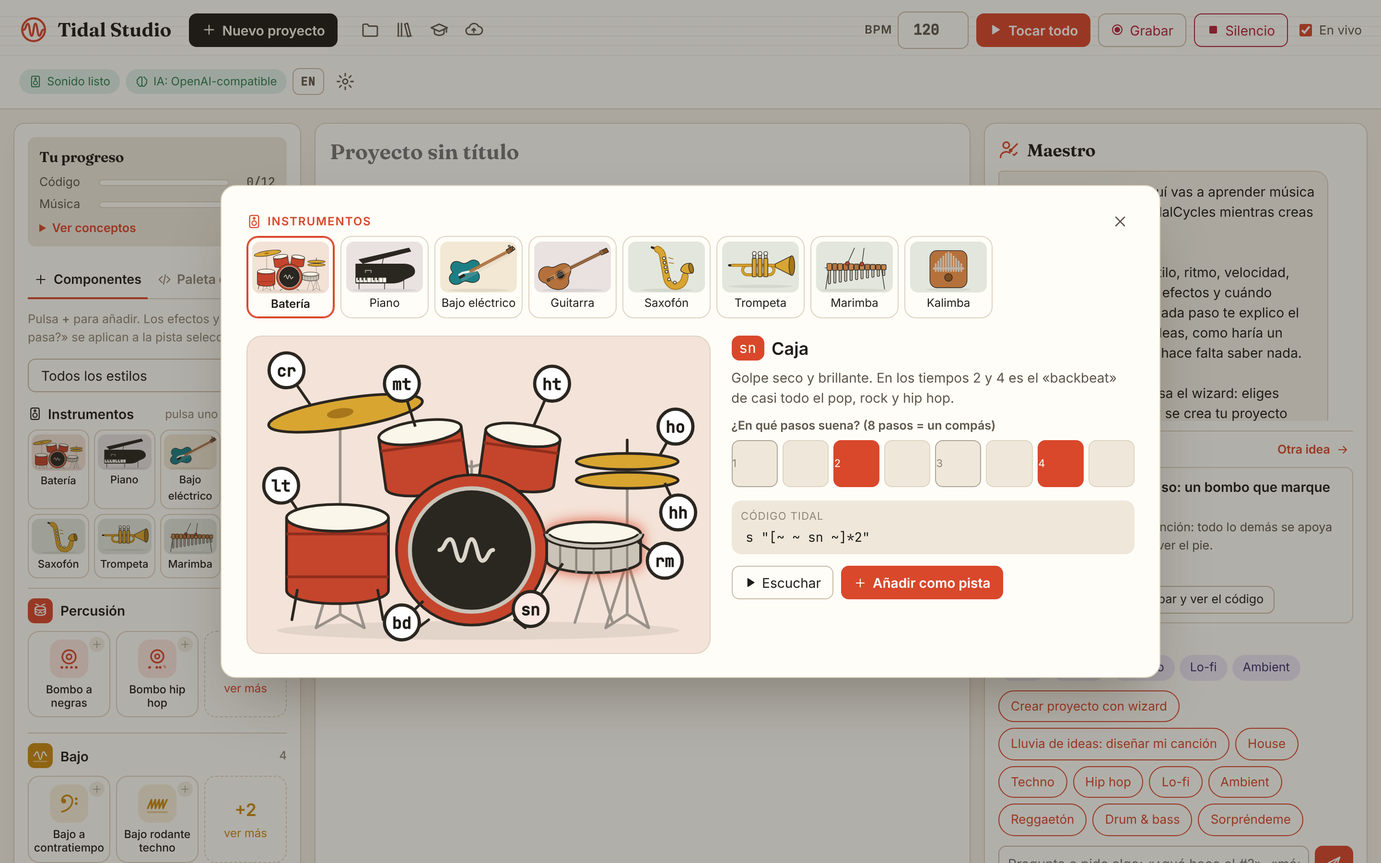
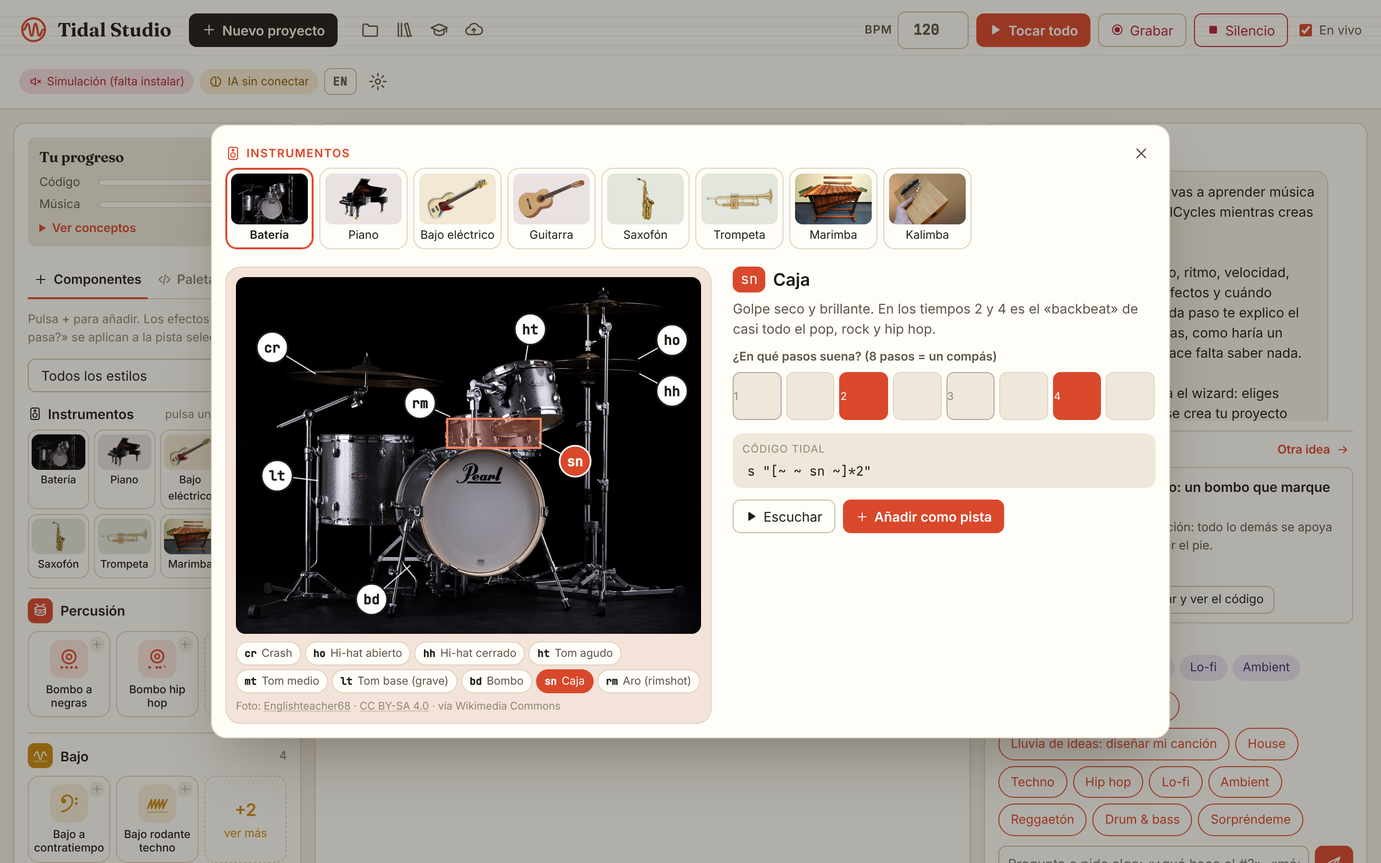
Real instrument photos from Wikimedia Commons with credits
Replace the hand-drawn instrument SVGs with openly licensed photos
(CC BY-SA). The drum kit photo keeps clickable hotspots, badges and a
chip row for every piece. Each photo shows author and license in the app,
and CREDITS.md lists them all. Regenerated instrument screenshots.

Claude-Session: https://claude.ai/code/session_011rzsaT1R4mKbtrY6eQau1r

diff --git a/web/instruments.js b/web/instruments.js
@@ -1,10 +1,36 @@
-// Instrumentos ilustrados: batería interactiva y teclado para instrumentos melódicos.
-// Ilustraciones dibujadas a mano en SVG (estilo «Partitura»), sin imágenes externas.
+// Instrumentos con fotos reales: batería interactiva y teclado para instrumentos melódicos.
+// Fotos con licencia libre de Wikimedia Commons (créditos en cada instrumento y en CREDITS.md).
 import { L } from "./i18n.js";
 
-const INK = "#2a2620", IVORY = "#fbf6ea", BRASS = "#d9a531", BRASS_D = "#a8761a", RED = "#c4452c", RED_D = "#8f2d1b",
-  CHROME = "#c9c3b8", WOOD = "#b5713b", WOOD_D = "#7d4a22", TEAL = "#1d7f86";
-const S = `stroke="${INK}" stroke-width="2" stroke-linejoin="round" stroke-linecap="round"`;
+const IMG = "img/instruments/";
+const COMMONS = "https://commons.wikimedia.org/wiki/File:";
+const LIC = {
+  "CC BY-SA 3.0": "https://creativecommons.org/licenses/by-sa/3.0/",
+  "CC BY-SA 4.0": "https://creativecommons.org/licenses/by-sa/4.0/",
+};
+// fit: "contain" = producto sobre fondo blanco (se funde con la tarjeta); "cover" = foto con su propio fondo
+const PHOTOS = {
+  drums: { src: "drums.jpg", fit: "cover", author: "Englishteacher68", license: "CC BY-SA 4.0", file: "Pearl_Midtown_compact_drum_kit.jpg" },
+  piano: { src: "piano.jpg", fit: "contain", author: "Steinway & Sons; derivative work: Morn", license: "CC BY-SA 3.0",
+    file: "Steinway_%26_Sons_concert_grand_piano,_model_D-274,_manufactured_at_Steinway%27s_factory_in_Hamburg,_Germany_cropped.jpg" },
+  bass: { src: "bass.jpg", fit: "contain", author: "Th. Ott", license: "CC BY-SA 3.0", file: "Fender_Jazz-Bass_1966.jpg" },
+  guitar: { src: "guitar.jpg", fit: "contain", author: "muzyczny.pl", license: "CC BY-SA 4.0", file: "Gitara_klasyczna_C30M_firmy_Yamaha.jpg" },
+  sax: { src: "sax.jpg", fit: "contain", author: "Yamaha Corporation", license: "CC BY-SA 4.0", file: "Yamaha_Saxophone_YAS-62.tif" },
+  trumpet: { src: "trumpet.jpg", fit: "contain", author: "Yamaha Corporation", license: "CC BY-SA 4.0", file: "Yamaha_Trumpet_YTR-8335LA_crop.jpg" },
+  marimba: { src: "marimba.jpg", fit: "cover", author: "HorsePunchKid", license: "CC BY-SA 3.0", file: "Bass_Marimba.jpg" },
+  kalimba: { src: "kalimba.jpg", fit: "cover", author: "Ernst-Andreas Müller (uploaded by Poipoi)", license: "CC BY-SA 3.0", file: "Kalimba.jpg" },
+};
+const escA = (s) => String(s).replace(/&/g, "&amp;").replace(/"/g, "&quot;").replace(/</g, "&lt;");
+
+export function photoImg(id, cls = "") {
+  const p = PHOTOS[id];
+  return `<img class="inst-photo ${p.fit}${cls ? " " + cls : ""}" src="${IMG}${p.src}" alt="" draggable="false">`;
+}
+// pie de foto con autor y licencia (obligatorio en CC BY-SA)
+export function photoCredit(id) {
+  const p = PHOTOS[id];
+  return `<div class="inst-credit">${L("Foto", "Photo")}: <a href="${COMMONS}${p.file}" target="_blank" rel="noopener">${escA(p.author)}</a> · <a href="${LIC[p.license]}" target="_blank" rel="noopener">${p.license}</a> · ${L("vía Wikimedia Commons", "via Wikimedia Commons")}</div>`;
+}
 
 // ------------------------------------------------------------------ batería
 export const DRUM_PIECES = {
@@ -17,7 +43,7 @@ export const DRUM_PIECES = {
   ht: { es: "Tom agudo", en: "High tom", steps: [0, 0, 0, 0, 0, 1, 0, 0],
     tip: ["El tambor más pequeño y agudo. Los toms se usan para redobles al final de una frase.", "The smallest, highest drum. Toms are used for fills at the end of a phrase."] },
   mt: { es: "Tom medio", en: "Mid tom", steps: [0, 0, 0, 0, 0, 0, 1, 0],
-    tip: ["Tom de altura media: junto al agudo y al grave forma una escalera de tambores.", "Medium-pitched tom: with the high and low ones it makes a staircase of drums."] },
+    tip: ["Tom de altura media: junto al agudo y al grave forma una escalera de tambores. Esta batería compacta solo trae dos toms, así que el medio no sale en la foto: pulsa su botón debajo.", "Medium-pitched tom: with the high and low ones it makes a staircase of drums. This compact kit only has two toms, so the mid tom is not in the photo: press its button below."] },
   lt: { es: "Tom base (grave)", en: "Floor tom (low)", steps: [0, 0, 0, 0, 0, 0, 0, 1],
     tip: ["El tom más grave, apoyado en el suelo. Cierra los redobles con fuerza.", "The lowest tom, standing on the floor. It closes fills with power."] },
   bd: { es: "Bombo", en: "Kick drum", steps: [1, 0, 1, 0, 1, 0, 1, 0],
@@ -28,97 +54,61 @@ export const DRUM_PIECES = {
     tip: ["Golpear el borde metálico de la caja: un «toc» seco, típico del reggaetón y la música latina.", "Hitting the snare's metal rim: a dry «tock», typical of reggaeton and Latin music."] },
 };
 
-function badge(p, x, y, lx, ly) {
-  return `<g class="dk-badge" data-p="${p}"><path d="M${lx} ${ly}L${x} ${y}" stroke="${INK}" stroke-width="2"/><circle cx="${x}" cy="${y}" r="13" fill="#fff" stroke="${INK}" stroke-width="2.4"/><text x="${x}" y="${y + 4.5}" text-anchor="middle">${p}</text></g>`;
-}
+// Zonas clicables sobre la foto (coordenadas de la foto original, 1920×1472).
+// Se dibujan de atrás hacia delante: lo que tapa a otra pieza va después.
+const DK_W = 1920, DK_H = 1472;
+const DK_SHAPES = {
+  lt: `<path d="M338 655 L670 655 L670 1020 L338 1020 Z"/>`,
+  bd: `<circle cx="975" cy="968" r="300"/>`,
+  sn: `<path d="M872 585 L1258 585 L1258 705 L872 705 Z"/>`,
+  rm: `<path class="dk-rim" d="M880 580 Q1060 548 1255 582"/>`,
+  cr: `<ellipse cx="535" cy="418" rx="335" ry="48"/><ellipse cx="1520" cy="128" rx="240" ry="40"/>`,
+  ho: `<ellipse cx="1485" cy="346" rx="190" ry="24"/>`,
+  hh: `<ellipse cx="1490" cy="392" rx="190" ry="22"/>`,
+  ht: `<ellipse cx="1190" cy="500" rx="172" ry="158"/>`,
+};
+const DK_ORDER = ["lt", "bd", "sn", "rm", "cr", "ho", "hh", "ht"];
+// [x, y] de la etiqueta y [x, y] del punto al que señala
+const DK_BADGES = {
+  cr: [150, 290, 330, 400], ho: [1800, 260, 1660, 338], hh: [1800, 470, 1665, 398], ht: [1215, 215, 1195, 345],
+  sn: [1400, 760, 1250, 680], rm: [760, 520, 885, 576], lt: [170, 820, 340, 840], bd: [560, 1330, 720, 1190],
+};
 
 export function drumKitSVG(sel = "", labels = true) {
   // sin etiquetas = miniatura: no es interactiva
-  const on = (p) => labels ? `class="dk-p${sel === p ? " sel" : ""}" data-p="${p}"` : "";
-  return `<svg class="drumkit" viewBox="0 0 330 222" role="img" aria-label="${L("Batería", "Drum kit")}">
-  <ellipse cx="165" cy="212" rx="150" ry="7" fill="${INK}" opacity=".08"/>
-  <g ${S} fill="none" opacity=".85"><path d="M62 58L62 200M62 200l-18 10M62 200l18 10M62 150l-18 60M62 150l18 60" stroke="#8a847a"/>
-    <path d="M276 92V200M276 200l-16 10M276 200l16 10M276 160l-16 50M276 160l16 50" stroke="#8a847a"/>
-    <path d="M251 160l-14 46M251 160l14 46M251 150v10" stroke="#8a847a"/>
-    <path d="M160 100v-14M130 82l30 8 30-8" stroke="#8a847a"/></g>
-  <g ${on("cr")}><ellipse cx="66" cy="50" rx="58" ry="11" transform="rotate(-9 66 50)" fill="${BRASS}" ${S}/><ellipse cx="62" cy="50" rx="10" ry="3.6" transform="rotate(-9 62 50)" fill="${BRASS_D}"/></g>
-  <g ${on("lt")}><path d="M22 128v54c0 6 17 10 38 10s38-4 38-10v-54" fill="${RED}" ${S}/><path d="M22 140h76M22 172h76" stroke="${RED_D}" stroke-width="2"/><path d="M30 182l-4 22M90 182l4 22" ${S}/><ellipse cx="60" cy="128" rx="38" ry="10" fill="${IVORY}" ${S}/></g>
-  <g ${on("mt")}><g transform="rotate(-8 124 82)"><path d="M93 64v38c0 5 14 9 31 9s31-4 31-9V64" fill="${RED}" ${S}/><path d="M93 74h62" stroke="${RED_D}" stroke-width="2"/><ellipse cx="124" cy="64" rx="31" ry="8.5" fill="${IVORY}" ${S}/></g></g>
-  <g ${on("ht")}><g transform="rotate(8 196 82)"><path d="M168 66v34c0 5 13 8 28 8s28-3 28-8V66" fill="${RED}" ${S}/><path d="M168 76h56" stroke="${RED_D}" stroke-width="2"/><ellipse cx="196" cy="66" rx="28" ry="8" fill="${IVORY}" ${S}/></g></g>
-  <g ${on("bd")}><circle cx="160" cy="152" r="56" fill="${RED}" ${S}/><circle cx="160" cy="152" r="46" fill="${INK}"/><circle cx="160" cy="152" r="46" fill="none" stroke="${CHROME}" stroke-width="3"/><path d="M136 152c4 0 4-8 8-8s4 16 8 16 4-16 8-16 4 16 8 16 4-8 8-8" stroke="${IVORY}" stroke-width="3" fill="none" stroke-linecap="round" stroke-linejoin="round" opacity=".85"/><path d="M128 204l-8 6M192 204l8 6" ${S}/></g>
-  <g ${on("sn")}><path d="M216 140v20c0 5 16 9 35 9s35-4 35-9v-20" fill="${CHROME}" ${S}/><path d="M226 145v21M238 147v22M251 148v22M264 147v22M276 145v21" stroke="#8a847a" stroke-width="1.6"/><ellipse cx="251" cy="140" rx="35" ry="9" fill="${IVORY}" ${S}/></g>
-  <g ${on("rm")}><path d="M216 140c0 5 16 9 35 9s35-4 35-9" fill="none" stroke="${INK}" stroke-width="5.5"/><path d="M216 140c0 5 16 9 35 9s35-4 35-9" fill="none" stroke="${CHROME}" stroke-width="2.6"/></g>
-  <g ${on("hh")}><ellipse cx="276" cy="100" rx="38" ry="6" fill="${BRASS}" ${S}/></g>
-  <g ${on("ho")}><ellipse cx="276" cy="86" rx="38" ry="6" fill="${BRASS}" ${S}/><path d="M276 80v-10" ${S}/></g>
-  ${labels ? [badge("cr", 22, 18, 40, 44), badge("ho", 312, 60, 300, 82), badge("hh", 314, 124, 304, 102), badge("mt", 108, 28, 118, 60), badge("ht", 220, 28, 206, 60),
-    badge("lt", 18, 104, 30, 122), badge("bd", 108, 206, 124, 190), badge("sn", 204, 196, 228, 162), badge("rm", 304, 160, 284, 146)].join("") : ""}
-</svg>`;
+  if (!labels) return photoImg("drums");
+  const shapes = DK_ORDER.map((p) => `<g class="dk-p${sel === p ? " sel" : ""}" data-p="${p}"><title>${p}: ${escA(L(DRUM_PIECES[p].es, DRUM_PIECES[p].en))}</title>${DK_SHAPES[p]}</g>`).join("");
+  const badges = Object.entries(DK_BADGES).map(([p, [x, y, lx, ly]]) =>
+    `<g class="dk-badge${sel === p ? " sel" : ""}" data-p="${p}"><path d="M${lx} ${ly}L${x} ${y}"/><circle cx="${x}" cy="${y}" r="64"/><text x="${x}" y="${y + 20}" text-anchor="middle">${p}</text></g>`).join("");
+  const chips = Object.keys(DRUM_PIECES).map((p) => `<button class="dk-chip${sel === p ? " sel" : ""}" data-p="${p}"><code>${p}</code> ${escA(L(DRUM_PIECES[p].es, DRUM_PIECES[p].en))}</button>`).join("");
+  return `<div class="drumkit" role="group" aria-label="${L("Batería", "Drum kit")}">
+  <div class="dk-photo">${photoImg("drums")}<svg viewBox="0 0 ${DK_W} ${DK_H}" preserveAspectRatio="none" aria-hidden="true">${shapes}${badges}</svg></div>
+  <div class="dk-chips">${chips}</div>
+</div>`;
 }
-
-// ------------------------------------------------------------------ instrumentos melódicos
-const piano = `<svg viewBox="0 0 240 160"><ellipse cx="120" cy="152" rx="100" ry="5" fill="${INK}" opacity=".08"/>
-  <path d="M40 56L196 20l6 10L52 68z" fill="${INK}" ${S}/><path d="M118 40l-6 34" ${S}/>
-  <path d="M30 70h150c22 0 36 10 34 26-2 14-22 16-34 24-10 7-20 10-40 10H30z" fill="${INK}" ${S}/>
-  <rect x="30" y="112" width="96" height="16" rx="2" fill="${IVORY}" ${S}/>
-  <path d="M42 112v16M54 112v16M66 112v16M78 112v16M90 112v16M102 112v16M114 112v16" stroke="${INK}" stroke-width="1.4"/>
-  <path d="M38 112v9M50 112v9M62 112v9M86 112v9M98 112v9" stroke="${INK}" stroke-width="4"/>
-  <path d="M40 130v18M120 130v18M180 120v28" ${S}/><path d="M60 98v-8h18v8" fill="none" stroke="${CHROME}" stroke-width="2"/></svg>`;
-const bass = `<svg viewBox="0 0 240 160"><ellipse cx="120" cy="152" rx="96" ry="5" fill="${INK}" opacity=".08"/>
-  <path d="M40 96c-14-14-6-36 14-34 10 1 14 8 24 6 12-2 18-14 32-10 18 5 16 26 4 34 10 8 14 26-2 34-14 7-24-4-36-2-10 2-14 12-30 10-20-3-24-26-6-38z" fill="${TEAL}" ${S}/>
-  <path d="M60 104l10-6 48-10" fill="none" stroke="${IVORY}" stroke-width="7" stroke-linecap="round"/>
-  <path d="M96 92L214 30" stroke="${WOOD}" stroke-width="10" stroke-linecap="round"/><path d="M96 92L214 30" ${S} fill="none" opacity=".25"/>
-  <path d="M206 26l20-12 8 10-20 14z" fill="${WOOD_D}" ${S}/>
-  <path d="M62 112L218 26M64 116L220 30M66 120L222 34M68 124L224 38" stroke="${CHROME}" stroke-width="1"/>
-  <rect x="58" y="104" width="20" height="9" rx="2" transform="rotate(-28 68 108)" fill="${INK}"/><circle cx="216" cy="14" r="3" fill="${CHROME}" ${S}/><circle cx="230" cy="22" r="3" fill="${CHROME}" ${S}/></svg>`;
-const guitar = `<svg viewBox="0 0 240 160"><ellipse cx="120" cy="152" rx="96" ry="5" fill="${INK}" opacity=".08"/>
-  <path d="M98 90L212 34" stroke="${WOOD_D}" stroke-width="11" stroke-linecap="round"/><path d="M204 30l22-10 7 12-22 10z" fill="${WOOD_D}" ${S}/>
-  <path d="M84 70c20-6 34 8 30 26-2 10-8 14-6 22 4 18-12 34-36 32-18-1-28-10-36-20-12-2-24-12-22-28 2-20 22-28 38-22 10 4 18-6 32-10z" fill="${WOOD}" ${S}/>
-  <circle cx="82" cy="104" r="12" fill="${INK}"/><circle cx="82" cy="104" r="15" fill="none" stroke="${WOOD_D}" stroke-width="2"/>
-  <rect x="40" y="114" width="22" height="7" rx="2" transform="rotate(-26 51 118)" fill="${WOOD_D}" ${S}/>
-  <path d="M50 122L216 36M50 117L214 32M48 112L212 28" stroke="${IVORY}" stroke-width="1" opacity=".9"/></svg>`;
-const sax = `<svg viewBox="0 0 240 160"><ellipse cx="120" cy="152" rx="80" ry="5" fill="${INK}" opacity=".08"/>
-  <path d="M74 18l18 6" stroke="${INK}" stroke-width="7" stroke-linecap="round"/>
-  <path d="M92 24c10 4 14 10 16 22l12 66c4 22 20 32 38 26 12-4 18-14 20-30" fill="none" stroke="${BRASS_D}" stroke-width="22" stroke-linecap="round"/>
-  <path d="M92 24c10 4 14 10 16 22l12 66c4 22 20 32 38 26 12-4 18-14 20-30" fill="none" stroke="${BRASS}" stroke-width="17" stroke-linecap="round"/>
-  <path d="M164 90c2-14 14-24 30-22l6 30c-14 4-28 2-36-8z" fill="${BRASS}" ${S}/><ellipse cx="197" cy="83" rx="7" ry="16" transform="rotate(-12 197 83)" fill="${BRASS_D}" ${S}/>
-  ${[[112, 52], [114, 66], [117, 80], [120, 94], [128, 118], [146, 128]].map(([x, y]) => `<circle cx="${x}" cy="${y}" r="4.5" fill="${IVORY}" ${S}/>`).join("")}
-  <path d="M126 50l14 4M128 66l14 2" stroke="${BRASS_D}" stroke-width="2.4" stroke-linecap="round"/></svg>`;
-const trumpet = `<svg viewBox="0 0 240 160"><ellipse cx="120" cy="140" rx="100" ry="5" fill="${INK}" opacity=".08"/>
-  <path d="M22 74h10" stroke="${INK}" stroke-width="7" stroke-linecap="round"/>
-  <rect x="64" y="74" width="98" height="30" rx="15" fill="none" stroke="${BRASS_D}" stroke-width="9"/><rect x="64" y="74" width="98" height="30" rx="15" fill="none" stroke="${BRASS}" stroke-width="5"/>
-  <path d="M32 74H170" stroke="${BRASS_D}" stroke-width="9" stroke-linecap="round"/><path d="M32 74H170" stroke="${BRASS}" stroke-width="5" stroke-linecap="round"/>
-  <path d="M166 70l52-26v62l-52-26z" fill="${BRASS}" ${S}/><ellipse cx="218" cy="75" rx="9" ry="31" fill="${BRASS_D}" ${S}/>
-  ${[94, 112, 130].map((x) => `<rect x="${x}" y="52" width="13" height="58" rx="3" fill="${BRASS}" ${S}/><rect x="${x + 2}" y="40" width="9" height="12" rx="2" fill="${CHROME}" ${S}/><circle cx="${x + 6.5}" cy="37" r="6" fill="${IVORY}" ${S}/>`).join("")}</svg>`;
-const marimba = `<svg viewBox="0 0 240 160"><ellipse cx="120" cy="152" rx="104" ry="5" fill="${INK}" opacity=".08"/>
-  <path d="M28 82h188M40 82l-10 66M204 82l10 66" ${S} fill="none"/>
-  ${Array.from({ length: 11 }, (_, i) => { const x = 34 + i * 17, h = 46 - i * 2.6; return `<rect x="${x + 4}" y="86" width="7" height="${h}" rx="3" fill="${CHROME}" ${S}/><rect x="${x}" y="${72 - (10 - i) * 0.4}" width="15" height="${22 - i * 0.6}" rx="3" fill="${i % 2 ? WOOD : "#c88447"}" ${S}/>`; }).join("")}
-  <path d="M120 20l-20 44M150 20l-6 46" ${S}/><circle cx="98" cy="68" r="6" fill="${RED}" ${S}/><circle cx="143" cy="70" r="6" fill="${RED}" ${S}/></svg>`;
-const kalimba = `<svg viewBox="0 0 240 160"><ellipse cx="120" cy="150" rx="70" ry="5" fill="${INK}" opacity=".08"/>
-  <rect x="62" y="28" width="116" height="116" rx="22" fill="${WOOD}" ${S}/><circle cx="120" cy="112" r="12" fill="${WOOD_D}" ${S}/>
-  <path d="M74 84h92" stroke="${CHROME}" stroke-width="6" stroke-linecap="round"/><path d="M74 84h92" stroke="${INK}" stroke-width="1.5" opacity=".4"/>
-  ${[44, 52, 60, 68, 76, 80, 76, 68, 60, 52, 44].map((h, i) => `<path d="M${80 + i * 8} ${84 - h + 30}V${92}" stroke="${CHROME}" stroke-width="5" stroke-linecap="round"/><path d="M${80 + i * 8} ${84 - h + 30}V${92}" stroke="${INK}" stroke-width="1" opacity=".35"/>`).join("")}</svg>`;
 
 // sound: nombre del sonido en Tidal. synth: sintetizador de SuperDirt (n = nota real). pack: se instala de VCSL.
 export const INSTRUMENTS = [
-  { id: "drums", es: "Batería", en: "Drum kit", kind: "percusion", svg: null,
+  { id: "drums", es: "Batería", en: "Drum kit", kind: "percusion",
     tip: ["Pulsa cada pieza para oírla. Luego elige en qué pasos suena y añádela como pista.", "Press each piece to hear it. Then choose which steps it plays on and add it as a track."] },
-  { id: "piano", es: "Piano", en: "Piano", kind: "armonia", svg: piano, sound: "superpiano", synth: true, oct: 5, voice: "triangle",
+  { id: "piano", es: "Piano", en: "Piano", kind: "armonia", sound: "superpiano", synth: true, oct: 5, voice: "triangle",
     tip: ["El instrumento para aprender armonía: toca varias notas a la vez y tendrás un acorde.", "The instrument for learning harmony: play several notes at once and you have a chord."] },
-  { id: "bass", es: "Bajo eléctrico", en: "Bass guitar", kind: "bajo", svg: bass, sound: "superpwm", synth: true, oct: 3, voice: "sawtooth", extra: " # lpf 900",
+  { id: "bass", es: "Bajo eléctrico", en: "Bass guitar", kind: "bajo", sound: "superpwm", synth: true, oct: 3, voice: "sawtooth", extra: " # lpf 900",
     tip: ["Notas graves que unen el ritmo con la armonía. Suele tocar la nota principal del acorde.", "Low notes that glue the beat to the harmony. It usually plays the chord's main note."] },
-  { id: "guitar", es: "Guitarra", en: "Guitar", kind: "armonia", svg: guitar, sound: "gtr", oct: 5, voice: "triangle",
+  { id: "guitar", es: "Guitarra", en: "Guitar", kind: "armonia", sound: "gtr", oct: 5, voice: "triangle",
     tip: ["Muestra de guitarra de Dirt-Samples. Tidal cambia su altura con note.", "A guitar sample from Dirt-Samples. Tidal changes its pitch with note."] },
-  { id: "sax", es: "Saxofón", en: "Saxophone", kind: "melodia", svg: sax, sound: "sax", oct: 5, voice: "square",
+  { id: "sax", es: "Saxofón", en: "Saxophone", kind: "melodia", sound: "sax", oct: 5, voice: "square",
     tip: ["Viento-metal del jazz y el soul: melodías cortas con huecos para respirar.", "The wind instrument of jazz and soul: short melodies with gaps to breathe."] },
-  { id: "trumpet", es: "Trompeta", en: "Trumpet", kind: "melodia", svg: trumpet, sound: "", oct: 5, voice: "square", freesound: "trumpet",
+  { id: "trumpet", es: "Trompeta", en: "Trumpet", kind: "melodia", sound: "", oct: 5, voice: "square", freesound: "trumpet",
     tip: ["Tidal no trae trompeta: búscala en Freesound (biblioteca de samples) y aparecerá aquí.", "Tidal has no trumpet built in: find one on Freesound (sample library) and it will show up here."] },
-  { id: "marimba", es: "Marimba", en: "Marimba", kind: "melodia", svg: marimba, sound: "marimba", pack: "vcsl", oct: 5, voice: "sine",
+  { id: "marimba", es: "Marimba", en: "Marimba", kind: "melodia", sound: "marimba", pack: "vcsl", oct: 5, voice: "sine",
     tip: ["Láminas de madera golpeadas: suena cálido y redondo. Viene del pack libre VCSL (CC0).", "Struck wooden bars: warm and round. It comes from the free VCSL pack (CC0)."] },
-  { id: "kalimba", es: "Kalimba", en: "Kalimba", kind: "melodia", svg: kalimba, sound: "kalimba", pack: "vcsl", oct: 5, voice: "sine",
+  { id: "kalimba", es: "Kalimba", en: "Kalimba", kind: "melodia", sound: "kalimba", pack: "vcsl", oct: 5, voice: "sine",
     tip: ["Piano de pulgar africano: notas cristalinas, ideal para lo-fi y ambient. Pack VCSL (CC0).", "African thumb piano: crystal-clear notes, great for lo-fi and ambient. VCSL pack (CC0)."] },
 ];
 export const instById = Object.fromEntries(INSTRUMENTS.map((i) => [i.id, i]));
-export const instThumb = (ins) => ins.id === "drums" ? drumKitSVG("", false) : ins.svg;
+export const instThumb = (ins) => photoImg(ins.id);
+export const instArt = (ins) => photoImg(ins.id, "big");
 
 // ------------------------------------------------------------------ notas y código
 export const NOTE_NAMES = ["c", "cs", "d", "ds", "e", "f", "fs", "g", "gs", "a", "as", "b"];

diff --git a/web/style.css b/web/style.css
@@ -512,36 +512,62 @@ dialog label input, dialog label select { box-sizing: border-box; }
 .sm-trim canvas { width: 100%; height: 90px; border-radius: 6px; }
 .sm-trim .ctl-code { margin-left: 0; align-self: flex-start; }
 
-/* ----- Instrumentos ilustrados ----- */
+/* ----- Instrumentos con fotos reales ----- */
 .inst-strip { margin: 2px 0 10px; }
 .inst-head { display: flex; align-items: center; gap: 6px; font-weight: 600; margin-bottom: 6px; }
 .inst-head span { margin-left: auto; color: var(--ink-3); font-weight: 400; font-size: 12px; }
 .inst-row { display: grid; grid-template-columns: repeat(4, minmax(0, 1fr)); gap: 5px; }
 .inst-card { --k: var(--accent); min-width: 0; line-height: 1.2; text-align: center; display: flex; flex-direction: column; align-items: center; gap: 2px; padding: 4px 3px 5px; border: 1px solid var(--rule); border-radius: 10px; background: var(--card); font: inherit; font-size: 11px; font-weight: 500; color: var(--ink); cursor: pointer; transition: transform .15s, border-color .15s, box-shadow .15s; }
 .inst-card:hover { border-color: var(--k); transform: translateY(-2px); box-shadow: 0 4px 12px color-mix(in srgb, var(--k) 20%, transparent); }
-.inst-art { display: block; width: 100%; aspect-ratio: 3 / 2; border-radius: 8px; background: color-mix(in srgb, var(--k) 9%, var(--paper, #fbf8f1)); }
-.inst-art svg { width: 100%; height: 100%; display: block; }
-.inst-card:hover .inst-art svg { animation: inst-wiggle .5s ease; }
-@keyframes inst-wiggle { 30% { transform: rotate(-3deg); } 60% { transform: rotate(2deg); } }
-#instrument { width: min(980px, 96vw); padding: 22px 26px 24px; }
+.inst-art { display: block; width: 100%; aspect-ratio: 3 / 2; border-radius: 8px; overflow: hidden; background: color-mix(in srgb, var(--k) 9%, var(--paper, #fbf8f1)); }
+.inst-photo { display: block; width: 100%; height: 100%; user-select: none; }
+.inst-photo.cover { object-fit: cover; }
+/* fotos de producto sobre fondo blanco: multiply hace que el blanco tome el color de la tarjeta */
+.inst-photo.contain { object-fit: contain; mix-blend-mode: multiply; padding: 4%; box-sizing: border-box; }
+.inst-card:hover .inst-art .inst-photo { animation: inst-wiggle .5s ease; }
+@keyframes inst-wiggle { 30% { transform: rotate(-2deg) scale(1.03); } 60% { transform: rotate(1.5deg) scale(1.03); } }
+#instrument { width: min(1000px, 96vw); }
 .inst-tabs { display: flex; gap: 6px; overflow-x: auto; padding-bottom: 6px; margin-bottom: 12px; }
 .inst-tabs button { --k: var(--accent); flex: 0 0 auto; display: flex; flex-direction: column; align-items: center; gap: 2px; width: 92px; padding: 5px; border: 1px solid var(--rule); border-radius: 12px; background: var(--card); font: inherit; font-size: 12px; cursor: pointer; }
 .inst-tabs button.active { border-color: var(--k); box-shadow: inset 0 0 0 1px var(--k); font-weight: 600; }
 .inst-main { display: grid; grid-template-columns: 1.15fr 1fr; gap: 22px; align-items: start; }
 .inst-stage { border-radius: 16px; padding: 10px; background: color-mix(in srgb, var(--k) 8%, var(--paper, #fbf8f1)); border: 1px solid var(--rule); }
-.inst-stage svg { width: 100%; height: auto; display: block; }
-.inst-big svg { max-height: 330px; }
-.drumkit .dk-p, .drumkit .dk-badge { cursor: pointer; transition: filter .15s, transform .15s; transform-box: fill-box; transform-origin: center; }
-.drumkit .dk-p:hover { filter: brightness(1.12) drop-shadow(0 0 4px rgba(217,72,43,.45)); }
-.drumkit .dk-p.sel { filter: drop-shadow(0 0 5px rgba(217,72,43,.9)); animation: dk-hit .35s ease; }
-@keyframes dk-hit { 40% { transform: scale(1.04); } }
-.drumkit .dk-badge text { font: 600 12px var(--mono, ui-monospace, monospace); fill: var(--ink); pointer-events: none; }
+.inst-big { border-radius: 10px; overflow: hidden; }
+.inst-big .inst-photo { height: auto; max-height: 340px; }
+.inst-big .inst-photo.contain { width: 100%; height: 300px; }
+.inst-big .inst-photo.cover { aspect-ratio: 4 / 3; height: auto; }
+.inst-credit { margin-top: 6px; font-size: 11px; color: var(--ink-3); line-height: 1.35; }
+.inst-credit a { color: inherit; text-decoration: underline; text-decoration-color: color-mix(in srgb, currentColor 40%, transparent); }
+.inst-credit a:hover { color: var(--ink); }
+.dk-photo { position: relative; border-radius: 10px; overflow: hidden; background: #0b0b0b; aspect-ratio: 1920 / 1472; }
+.dk-photo .inst-photo { position: absolute; inset: 0; object-fit: cover; }
+.dk-photo svg { position: absolute; inset: 0; width: 100%; height: 100%; display: block; }
+.drumkit .dk-p { cursor: pointer; fill: rgba(255,255,255,0); stroke: rgba(255,255,255,0); stroke-width: 6; transition: fill .15s, stroke .15s; }
+.drumkit .dk-p .dk-rim { fill: none; stroke-width: 34; stroke-linecap: round; }
+.drumkit .dk-p:hover { fill: rgba(242,112,80,.18); stroke: rgba(255,170,140,.9); }
+.drumkit .dk-p.sel { fill: rgba(242,112,80,.30); stroke: #ff8a66; stroke-width: 8; animation: dk-hit .35s ease; }
+.drumkit .dk-p .dk-rim, .drumkit .dk-p:hover .dk-rim { fill: none; }
+.drumkit .dk-p:hover .dk-rim { stroke: rgba(255,170,140,.9); }
+.drumkit .dk-p.sel .dk-rim { stroke: #ff8a66; }
+@keyframes dk-hit { 40% { opacity: .55; } }
+.drumkit .dk-badge { cursor: pointer; }
+.drumkit .dk-badge path { stroke: rgba(255,255,255,.85); stroke-width: 5; }
+.drumkit .dk-badge circle { fill: #fff; stroke: var(--ink, #2a2620); stroke-width: 7; transition: fill .15s; }
+.drumkit .dk-badge text { font: 700 56px var(--mono, ui-monospace, monospace); fill: var(--ink, #2a2620); pointer-events: none; }
 .drumkit .dk-badge:hover circle { fill: #fde9e3; }
+.drumkit .dk-badge.sel circle { fill: var(--k-percusion, #d9482b); stroke: #fff; }
+.drumkit .dk-badge.sel text { fill: #fff; }
+.dk-chips { display: flex; flex-wrap: wrap; gap: 4px; margin-top: 8px; }
+.dk-chip { display: inline-flex; align-items: center; gap: 5px; padding: 3px 8px; border-radius: 99px; border: 1px solid var(--rule); background: var(--card); font: inherit; font-size: 11.5px; color: var(--ink-2); cursor: pointer; }
+.dk-chip code { font-weight: 600; color: var(--ink); background: none; padding: 0; }
+.dk-chip:hover { border-color: var(--k-percusion); }
+.dk-chip.sel { background: var(--k-percusion); border-color: var(--k-percusion); color: #fff; }
+.dk-chip.sel code { color: #fff; }
 .inst-piece { display: flex; align-items: center; gap: 8px; font-size: 18px; }
 .inst-piece code { background: var(--k-percusion); color: #fff; border-radius: 8px; padding: 2px 8px; font-size: 15px; }
 .inst-tip { color: var(--ink-2); margin: 6px 0 10px; }
 .inst-lbl { font-size: 12.5px; font-weight: 600; color: var(--ink-2); margin: 10px 0 6px; display: flex; align-items: center; gap: 8px; flex-wrap: wrap; }
-.inst-steps { display: grid; grid-template-columns: repeat(8, 1fr); gap: 5px; }
+.inst-steps { max-width: 440px; display: grid; grid-template-columns: repeat(8, 1fr); gap: 5px; }
 .inst-steps button { aspect-ratio: 1; border-radius: 8px; border: 1px solid var(--rule); background: var(--sunk); font: inherit; font-size: 11px; color: var(--ink-3); cursor: pointer; padding: 0; }
 .inst-steps button.beat { border-color: color-mix(in srgb, var(--ink) 25%, var(--rule)); }
 .inst-steps button.on { background: var(--k-percusion); border-color: var(--k-percusion); color: #fff; }

diff --git a/web/app.js b/web/app.js
@@ -2,7 +2,7 @@ import { L, LANG, setLang } from "./i18n.js";
 import { STYLES, CATEGORIES, COMPONENTS, byId } from "./catalog.js";
 import { compIcon } from "./comp-icons.js";
 import { startTour, stopTour, tourFlag, tourSeen } from "./tour.js";
-import { INSTRUMENTS, instById, instThumb, DRUM_PIECES, drumKitSVG, drumCode, melodyCode, keyboardHTML, noteName, beep } from "./instruments.js";
+import { INSTRUMENTS, instById, instThumb, instArt, photoCredit, DRUM_PIECES, drumKitSVG, drumCode, melodyCode, keyboardHTML, noteName, beep } from "./instruments.js";
 import { icon, hydrateIcons } from "./icons.js";
 import { explainLocal } from "./explain.js";
 import { localSuggestions, CODE_CONCEPTS, MUSIC_CONCEPTS, retoFor } from "./suggest.js";
@@ -674,7 +674,7 @@ function renderCatalog() {
   }
 }
 
-// ------------------------------------------------------------------ instrumentos ilustrados
+// ------------------------------------------------------------------ instrumentos con fotos reales
 const inst = { id: "drums", piece: "bd", steps: {}, seqs: {}, oct: {}, sound: {}, lib: null, get seq() { return this.seqs[this.id] || (this.seqs[this.id] = []); }, set seq(v) { this.seqs[this.id] = v; } };
 const isSim = () => !!(server.engine && server.engine.simulation);
 async function openInstrument(id) {
@@ -706,7 +706,7 @@ function renderInstrument() {
       <div class="inst-steps">${steps.map((v, i) => `<button data-st="${i}" class="${v ? "on" : ""}${i % 2 ? "" : " beat"}">${i % 2 ? "" : i / 2 + 1}</button>`).join("")}</div>`;
   } else {
     const oct = inst.oct[ins.id] ?? ins.oct, sound = instSound(ins), ready = instReady(ins, sound);
-    art = `<div class="inst-big">${ins.svg}</div>`;
+    art = `<div class="inst-big">${instArt(ins)}</div>`;
     let src = "";
     if (ins.freesound) {
       const mine = (inst.lib || []).filter((x) => x.type !== "percusion");
@@ -726,7 +726,7 @@ function renderInstrument() {
       <div class="inst-seqbtns"><button data-a="rest">~ ${L("silencio", "rest")}</button><button data-a="pop">${icon("back", 13)} ${L("borrar última", "delete last")}</button><button data-a="clear">${icon("trash", 13)} ${L("vaciar", "clear")}</button></div>`;
   }
   const code = instCode(ins);
-  $("#inst-body").innerHTML = `${tabs}<div class="inst-main"><div class="inst-stage" style="--k:${KIND_COLOR[ins.kind]}">${art}</div>
+  $("#inst-body").innerHTML = `${tabs}<div class="inst-main"><div class="inst-stage" style="--k:${KIND_COLOR[ins.kind]}">${art}${photoCredit(ins.id)}</div>
     <div class="inst-side">${side}
       <div class="inst-code"><span>${L("Código Tidal", "Tidal code")}</span><code>${esc(code)}</code></div>
       <div class="inst-actions"><button data-a="listen">${icon("play", 13)} ${L("Escuchar", "Listen")}</button>

diff --git a/web/tour.js b/web/tour.js
@@ -23,7 +23,7 @@ function steps(ctx) {
       text: L("En 5 minutos vas a hacer tu primera canción y conocer todo el estudio. Yo te ilumino cada parte y tú la pruebas. Puedes saltar cualquier paso.",
         "In 5 minutes you'll make your first song and get to know the whole studio. I light up each part and you try it. You can skip any step.") },
     { title: L("1 · Los instrumentos", "1 · The instruments"), target: ".inst-strip", before: () => ctx.closeDialogs(),
-      text: L("Aquí tienes instrumentos de verdad dibujados. Empezamos por el ritmo: abre la batería.", "Here are real instruments, illustrated. Let's start with the beat: open the drum kit."),
+      text: L("Aquí tienes fotos de instrumentos de verdad. Empezamos por el ritmo: abre la batería.", "Here are photos of real instruments. Let's start with the beat: open the drum kit."),
       todo: L("Pulsa «Batería»", "Press «Drum kit»"), done: () => open("#instrument") },
     { title: L("2 · Toca la batería", "2 · Play the drums"), target: "#instrument .inst-stage", before: () => { flags.delete("drum-piece"); if (!open("#instrument")) ctx.openInstrument("drums"); },
       text: L("Cada pieza tiene su nombre en Tidal: bd es el bombo, sn la caja, hh el hi-hat… Pulsa una pieza para oírla.",

diff --git a/CREDITS.md b/CREDITS.md
@@ -1,0 +1,27 @@
+# Credits
+
+## Instrument photos
+
+The instrument photos in `web/img/instruments/` come from [Wikimedia Commons](https://commons.wikimedia.org/).
+They were resized and cropped (the guitar and bass were rotated, and the photographer's caption was cropped from the kalimba photo) for the app. Each photo keeps its original license,
+and the app shows the author and license under every photo.
+
+| Instrument | Photo | Author | License |
+|---|---|---|---|
+| Drum kit | [Pearl Midtown compact drum kit](https://commons.wikimedia.org/wiki/File:Pearl_Midtown_compact_drum_kit.jpg) | Englishteacher68 | [CC BY-SA 4.0](https://creativecommons.org/licenses/by-sa/4.0/) |
+| Piano | [Steinway & Sons concert grand piano, model D-274 (cropped)](https://commons.wikimedia.org/wiki/File:Steinway_%26_Sons_concert_grand_piano,_model_D-274,_manufactured_at_Steinway%27s_factory_in_Hamburg,_Germany_cropped.jpg) | Steinway & Sons; derivative work: Morn | [CC BY-SA 3.0](https://creativecommons.org/licenses/by-sa/3.0/) |
+| Bass guitar | [Fender Jazz Bass 1966](https://commons.wikimedia.org/wiki/File:Fender_Jazz-Bass_1966.jpg) | Th. Ott | [CC BY-SA 3.0](https://creativecommons.org/licenses/by-sa/3.0/) |
+| Guitar | [Yamaha C30M classical guitar](https://commons.wikimedia.org/wiki/File:Gitara_klasyczna_C30M_firmy_Yamaha.jpg) | muzyczny.pl | [CC BY-SA 4.0](https://creativecommons.org/licenses/by-sa/4.0/) |
+| Saxophone | [Yamaha Saxophone YAS-62](https://commons.wikimedia.org/wiki/File:Yamaha_Saxophone_YAS-62.tif) | Yamaha Corporation | [CC BY-SA 4.0](https://creativecommons.org/licenses/by-sa/4.0/) |
+| Trumpet | [Yamaha Trumpet YTR-8335LA (crop)](https://commons.wikimedia.org/wiki/File:Yamaha_Trumpet_YTR-8335LA_crop.jpg) | Yamaha Corporation | [CC BY-SA 4.0](https://creativecommons.org/licenses/by-sa/4.0/) |
+| Marimba | [Bass Marimba](https://commons.wikimedia.org/wiki/File:Bass_Marimba.jpg) | HorsePunchKid | [CC BY-SA 3.0](https://creativecommons.org/licenses/by-sa/3.0/) |
+| Kalimba | [Kalimba](https://commons.wikimedia.org/wiki/File:Kalimba.jpg) | Ernst-Andreas Müller (uploaded by Poipoi, German Wikipedia) | [CC BY-SA 3.0](https://creativecommons.org/licenses/by-sa/3.0/) |
+
+Under CC BY-SA, the adapted photos in `web/img/instruments/` are shared under the same license as their originals.
+Product and brand names visible on the instruments belong to their owners and do not imply any endorsement.
+
+## Sounds
+
+- [Dirt-Samples](https://github.com/tidalcycles/Dirt-Samples), the default sample set that comes with SuperDirt.
+- [VCSL](https://github.com/sgossner/VCSL) (Versilian Community Sample Library), CC0, for marimba and kalimba.
+- Sounds you find through the in-app [Freesound](https://freesound.org/) search keep the license shown next to each one.

diff --git a/README.es.md b/README.es.md
@@ -10,7 +10,7 @@ en vivo con un profesor de IA ("Maestro") que te acompaña en cada paso, aunque 
 - **Tutorial interactivo**: la primera vez que abres el estudio, Maestro te enseña todo en 21 pasos cortos (tocar la
   batería, añadir pistas, efectos, controles en el chat, ideas, recetas, bloques, arreglo, código, biblioteca…). Cada paso
   espera a que lo hagas, y puedes repetirlo desde el botón del birrete.
-- **Instrumentos ilustrados**: una batería en la que pulsas cada pieza (bd, sn, hh, ho, toms, crash, aro) para oírla y
+- **Fotos reales de instrumentos** (con licencia libre, de Wikimedia Commons, ver [CREDITS.md](CREDITS.md)): una batería en la que pulsas cada pieza (bd, sn, hh, ho, toms, crash, aro) para oírla y
   aprender su nombre en Tidal, eliges sus pasos y la añades; piano, bajo, guitarra, saxo, trompeta, marimba y kalimba con
   un teclado en pantalla que escribe tu melodía como código. Cada componente tiene además su propio icono.
 - **Maestro te guía** paso a paso: estilo, ritmo, velocidad, bajo, acordes, melodía, efectos y cuándo cambia cada cosa.

diff --git a/README.md b/README.md
@@ -10,7 +10,7 @@ with an AI teacher ("Maestro") who supports you at every step, even if you know 
 - **Interactive tutorial**: the first time you open the studio, Maestro walks you through everything in 21 short steps
   (play the drums, add tracks, effects, chat controls, ideas, recipes, blocks, arrangement, code, library…). Each step
   waits for you to do it, and you can repeat it from the cap button.
-- **Illustrated instruments**: a drum kit where you press each piece (bd, sn, hh, ho, toms, crash, rimshot) to hear it
+- **Real instrument photos** (openly licensed, from Wikimedia Commons, see [CREDITS.md](CREDITS.md)): a drum kit where you press each piece (bd, sn, hh, ho, toms, crash, rimshot) to hear it
   and learn its Tidal name, then choose its steps and add it; piano, bass, guitar, sax, trumpet, marimba and kalimba
   with an on-screen keyboard that writes your melody as code. Every component also has its own icon.
 - **Maestro guides you** step by step: style, beat, tempo, bass, chords, melody, effects, and when each thing changes.
